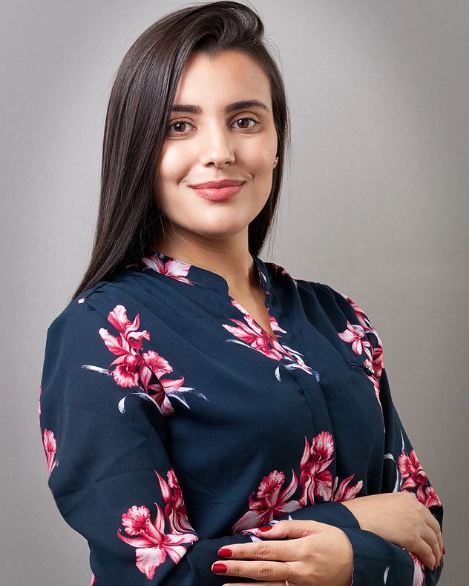
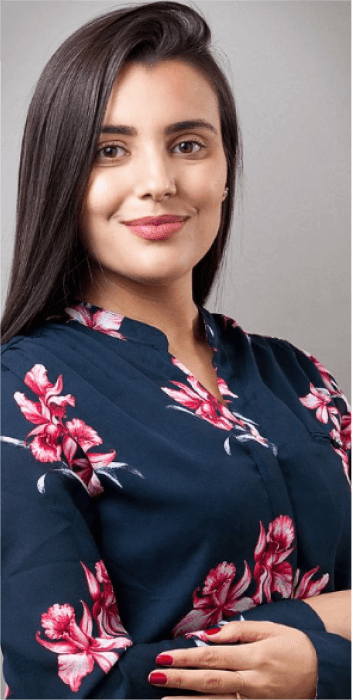
Compress images
Compress images

diff --git a/index.html b/index.html
@@ -33,7 +33,7 @@
       <p class="quadro-empresas">EMPRESAS QUE COLABOREI</p>
     </div>
     <div class="apresentacao-imagem">
-      <img class="foto-principal" src="img/creating-a-brand-2mMhaoBGjCs-unsplash-removebg-preview 1.png"
+      <img class="foto-principal" src="img/andreza-perfil.png"
         alt="foto-principal" />
       <h3 class="foto-principal-texto">DRA. ANDREZA RAMOS</h3>
       <p class="foto-principal-texto">advogada</p>
